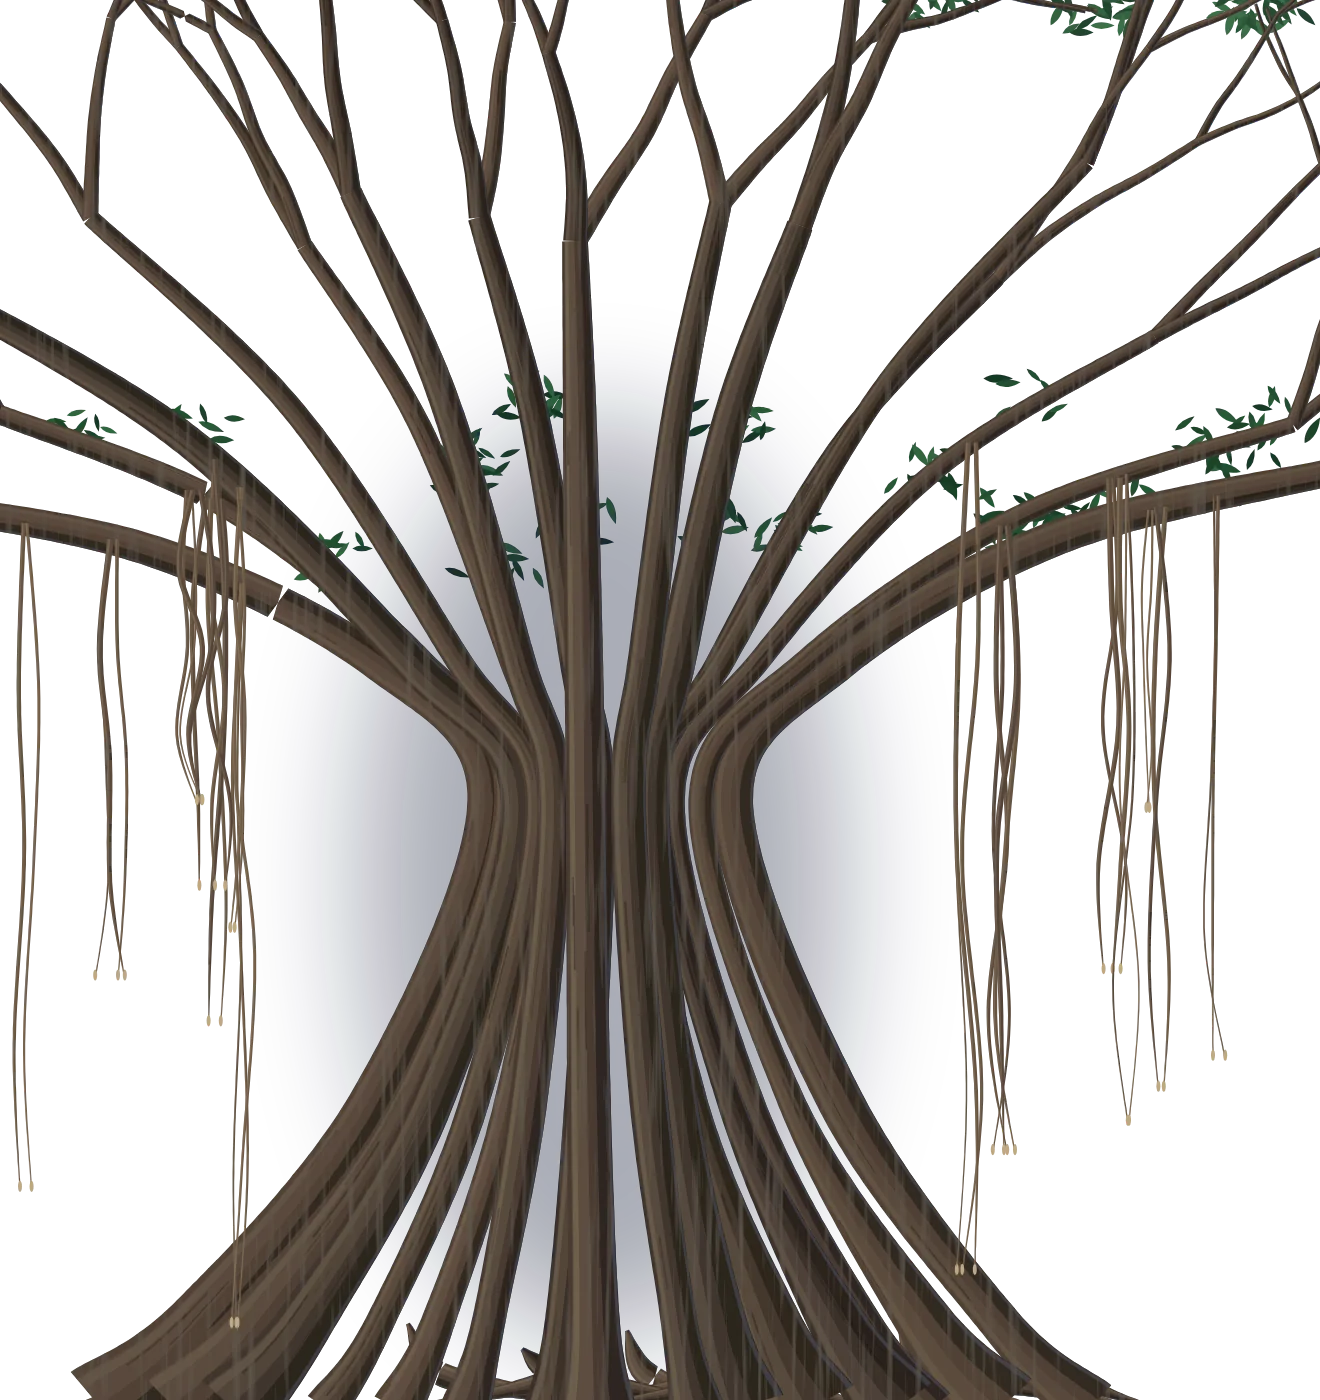
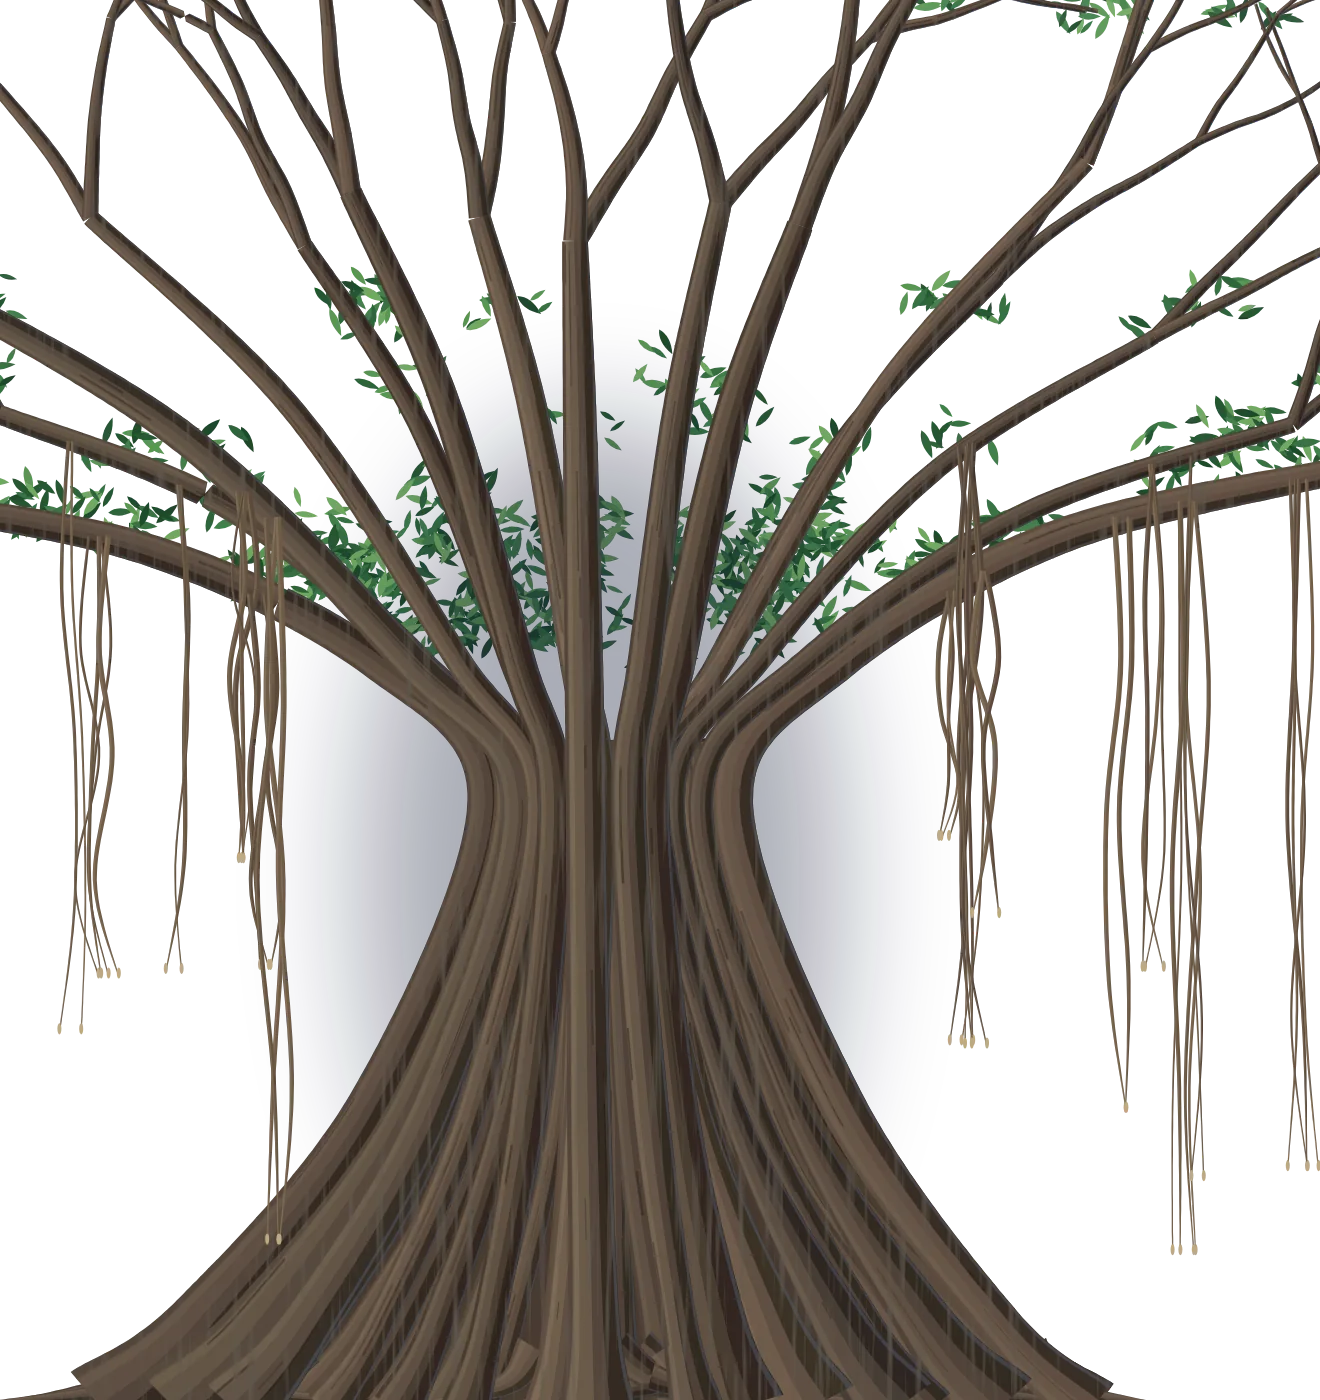
Banian : feuillage parsemé, teinte éclaircie, base dense
Claude-Session: https://claude.ai/code/session_01Nt8rFWjdj5spwPEUakjUMS

diff --git a/index.html b/index.html
@@ -75,8 +75,8 @@ else if(a.matches('.pol-carte'))n='carte-ouverte';else if(h.indexOf('courbe/')==
         <a class="btn btn-blanc" href="#devis">Demander un devis</a>
         <a class="btn btn-contour" href="introduction.html">Essayer gratuitement <span class="btn-sous">· 10 min</span></a>
       </div>
-      <img class="banian banian-arriere" src="banian-arriere.webp?v=2" alt="" width="660" height="700" aria-hidden="true" decoding="async">
-      <img class="banian banian-avant" src="banian-avant.webp?v=2" alt="" width="660" height="700" aria-hidden="true" decoding="async">
+      <img class="banian banian-arriere" src="banian-arriere.webp?v=4" alt="" width="660" height="700" aria-hidden="true" decoding="async">
+      <img class="banian banian-avant" src="banian-avant.webp?v=4" alt="" width="660" height="700" aria-hidden="true" decoding="async">
       <figure class="polaroid" id="polaroid">
         <svg class="pol-racines" viewBox="-46 -6 262 278" preserveAspectRatio="none" aria-hidden="true"><g fill="none" stroke="#A07E60" stroke-linecap="round" stroke-linejoin="round"><path d="M6.0 135.6 L2.1 134.8 L-1.9 134.3 L-5.9 133.8 L-9.8 133.0 L-13.7 132.3 L-17.7 131.6 L-21.6 130.8 L-25.5 130.1 L-29.4 129.1 L-33.2 128.0 L-37.1 126.8" stroke-width="0.70"/><path d="M6.0 135.6 L2.1 134.8 L-1.9 134.3 L-5.9 133.8 L-9.8 133.0 L-13.7 132.3 L-17.7 131.6" stroke-width="1.56"/><path d="M6.0 135.6 L2.1 134.8 L-1.9 134.3 L-5.9 133.8" stroke-width="1.94"/><path d="M-5.9 133.8 L-8.4 130.7 L-10.9 127.5 L-13.2 124.3 L-15.3 120.9" stroke-width="0.70"/><path d="M-5.9 133.8 L-8.4 130.7 L-10.9 127.5" stroke-width="0.64"/><path d="M-5.9 133.8 L-8.4 130.7" stroke-width="0.80"/><path d="M-5.9 133.8 L-9.8 134.7 L-13.7 135.1 L-17.7 135.6 L-21.7 136.2 L-25.6 136.9 L-29.6 137.4" stroke-width="0.70"/><path d="M-5.9 133.8 L-9.8 134.7 L-13.7 135.1 L-17.7 135.6" stroke-width="0.64"/><path d="M-5.9 133.8 L-9.8 134.7" stroke-width="0.80"/><path d="M-9.8 134.7 L-13.4 133.0 L-17.2 131.8" stroke-width="0.70"/><path d="M-9.8 134.7 L-13.4 133.0" stroke-width="0.30"/><path d="M-9.8 134.7 L-13.4 133.0" stroke-width="0.38"/><path d="M-5.9 133.8 L-9.7 135.0 L-13.5 136.0 L-17.4 137.2 L-21.0 138.8 L-24.5 140.7" stroke-width="0.70"/><path d="M-5.9 133.8 L-9.7 135.0 L-13.5 136.0" stroke-width="0.64"/><path d="M-5.9 133.8 L-9.7 135.0" stroke-width="0.80"/><path d="M-9.7 135.0 L-13.7 135.1" stroke-width="0.70"/><path d="M-9.7 135.0 L-13.7 135.1" stroke-width="0.30"/><path d="M-9.7 135.0 L-13.7 135.1" stroke-width="0.37"/><path d="M6.0 169.5 L2.1 168.6 L-1.8 167.9 L-5.8 167.4 L-9.8 167.0 L-13.8 167.3 L-17.7 168.0 L-21.5 169.1 L-25.3 170.5 L-28.9 172.3 L-32.4 174.2" stroke-width="0.70"/><path d="M6.0 169.5 L2.1 168.6 L-1.8 167.9 L-5.8 167.4 L-9.8 167.0 L-13.8 167.3 L-17.7 168.0" stroke-width="1.39"/><path d="M6.0 169.5 L2.1 168.6 L-1.8 167.9 L-5.8 167.4" stroke-width="1.72"/><path d="M-17.7 168.0 L-21.6 166.9 L-25.4 165.7 L-29.1 164.2 L-32.6 162.3 L-36.0 160.2" stroke-width="0.70"/><path d="M-17.7 168.0 L-21.6 166.9 L-25.4 165.7" stroke-width="0.35"/><path d="M-17.7 168.0 L-21.6 166.9" stroke-width="0.43"/><path d="M6.0 203.4 L2.0 202.9 L-1.9 202.5 L-5.9 202.2 L-9.9 201.9 L-13.9 201.7 L-17.9 201.5 L-21.9 201.2 L-25.9 201.1 L-29.9 200.8 L-33.8 200.1 L-37.8 199.3 L-41.6 198.2" stroke-width="0.70"/><path d="M6.0 203.4 L2.0 202.9 L-1.9 202.5 L-5.9 202.2 L-9.9 201.9 L-13.9 201.7 L-17.9 201.5 L-21.9 201.2" stroke-width="1.35"/><path d="M6.0 203.4 L2.0 202.9 L-1.9 202.5 L-5.9 202.2" stroke-width="1.68"/><path d="M-9.9 201.9 L-11.9 198.4 L-13.8 194.9 L-15.4 191.3 L-16.8 187.5 L-18.0 183.7" stroke-width="0.70"/><path d="M-9.9 201.9 L-11.9 198.4 L-13.8 194.9" stroke-width="0.52"/><path d="M-9.9 201.9 L-11.9 198.4" stroke-width="0.64"/><path d="M-11.9 198.4 L-15.1 196.1" stroke-width="0.70"/><path d="M-11.9 198.4 L-15.1 196.1" stroke-width="0.24"/><path d="M-11.9 198.4 L-15.1 196.1" stroke-width="0.29"/><path d="M-11.9 198.4 L-14.8 195.7" stroke-width="0.70"/><path d="M-11.9 198.4 L-14.8 195.7" stroke-width="0.24"/><path d="M-11.9 198.4 L-14.8 195.7" stroke-width="0.29"/><path d="M-11.9 198.4 L-15.7 197.1 L-19.4 195.6" stroke-width="0.70"/><path d="M-11.9 198.4 L-15.7 197.1" stroke-width="0.24"/><path d="M-11.9 198.4 L-15.7 197.1" stroke-width="0.29"/><path d="M-21.9 201.2 L-25.0 203.7 L-27.7 206.7 L-30.2 209.8 L-32.4 213.2" stroke-width="0.70"/><path d="M-21.9 201.2 L-25.0 203.7 L-27.7 206.7" stroke-width="0.34"/><path d="M-21.9 201.2 L-25.0 203.7" stroke-width="0.43"/><path d="M164.0 126.6 L168.0 127.1 L171.8 128.3 L175.4 130.0 L178.5 132.5 L181.0 135.7 L182.6 139.3 L183.9 143.1 L185.3 146.9 L186.3 150.7" stroke-width="0.70"/><path d="M164.0 126.6 L168.0 127.1 L171.8 128.3 L175.4 130.0 L178.5 132.5 L181.0 135.7" stroke-width="1.33"/><path d="M164.0 126.6 L168.0 127.1 L171.8 128.3" stroke-width="1.66"/><path d="M178.5 132.5 L177.3 136.3 L176.4 140.2 L175.7 144.2 L175.1 148.1" stroke-width="0.70"/><path d="M178.5 132.5 L177.3 136.3 L176.4 140.2" stroke-width="0.44"/><path d="M178.5 132.5 L177.3 136.3" stroke-width="0.55"/><path d="M175.4 130.0 L175.0 134.0 L174.6 138.0 L174.1 141.9" stroke-width="0.70"/><path d="M175.4 130.0 L175.0 134.0" stroke-width="0.51"/><path d="M175.4 130.0 L175.0 134.0" stroke-width="0.64"/><path d="M164.0 162.7 L168.0 162.5 L172.0 162.6 L176.0 162.6 L180.0 162.8 L183.9 163.4 L187.8 164.3 L191.6 165.6 L195.3 167.1 L198.7 169.3" stroke-width="0.70"/><path d="M164.0 162.7 L168.0 162.5 L172.0 162.6 L176.0 162.6 L180.0 162.8 L183.9 163.4" stroke-width="1.22"/><path d="M164.0 162.7 L168.0 162.5 L172.0 162.6" stroke-width="1.52"/><path d="M176.0 162.6 L180.0 162.6 L184.0 162.3 L188.0 161.9" stroke-width="0.70"/><path d="M176.0 162.6 L180.0 162.6" stroke-width="0.47"/><path d="M176.0 162.6 L180.0 162.6" stroke-width="0.58"/><path d="M180.0 162.8 L183.9 162.0 L187.8 161.4" stroke-width="0.70"/><path d="M180.0 162.8 L183.9 162.0" stroke-width="0.40"/><path d="M180.0 162.8 L183.9 162.0" stroke-width="0.50"/><path d="M164.0 198.9 L167.8 200.0 L171.7 201.0 L175.6 202.1 L179.4 203.3 L183.1 204.8 L186.7 206.4 L190.3 208.3 L193.5 210.6 L196.4 213.4" stroke-width="0.70"/><path d="M164.0 198.9 L167.8 200.0 L171.7 201.0 L175.6 202.1 L179.4 203.3 L183.1 204.8" stroke-width="1.46"/><path d="M164.0 198.9 L167.8 200.0 L171.7 201.0" stroke-width="1.82"/><path d="M186.7 206.4 L186.8 210.4 L187.3 214.4 L187.8 218.3" stroke-width="0.70"/><path d="M186.7 206.4 L186.8 210.4" stroke-width="0.32"/><path d="M186.7 206.4 L186.8 210.4" stroke-width="0.40"/><path d="M30.6 220.0 L31.9 223.8 L33.1 227.6 L34.7 231.3 L36.4 234.9 L38.1 238.5 L40.0 242.0 L42.4 245.3" stroke-width="0.70"/><path d="M30.6 220.0 L31.9 223.8 L33.1 227.6 L34.7 231.3 L36.4 234.9" stroke-width="1.25"/><path d="M30.6 220.0 L31.9 223.8 L33.1 227.6" stroke-width="1.55"/><path d="M36.4 234.9 L40.4 235.2 L44.3 235.7 L48.2 236.8" stroke-width="0.70"/><path d="M36.4 234.9 L40.4 235.2" stroke-width="0.34"/><path d="M36.4 234.9 L40.4 235.2" stroke-width="0.43"/><path d="M38.1 238.5 L42.0 239.3 L45.9 240.3 L49.7 241.4" stroke-width="0.70"/><path d="M38.1 238.5 L42.0 239.3" stroke-width="0.26"/><path d="M38.1 238.5 L42.0 239.3" stroke-width="0.32"/><path d="M71.4 220.0 L72.3 223.9 L73.0 227.8 L73.5 231.8 L73.5 235.8 L72.7 239.7 L71.3 243.5 L69.5 247.1 L67.6 250.6" stroke-width="0.70"/><path d="M71.4 220.0 L72.3 223.9 L73.0 227.8 L73.5 231.8 L73.5 235.8" stroke-width="1.34"/><path d="M71.4 220.0 L72.3 223.9 L73.0 227.8" stroke-width="1.66"/><path d="M73.5 231.8 L69.7 233.0 L66.1 234.7 L62.8 237.0 L60.1 239.9" stroke-width="0.70"/><path d="M73.5 231.8 L69.7 233.0 L66.1 234.7" stroke-width="0.49"/><path d="M73.5 231.8 L69.7 233.0" stroke-width="0.61"/><path d="M107.1 220.0 L107.5 224.0 L107.5 228.0 L107.5 232.0 L107.3 236.0 L107.2 240.0 L107.4 244.0 L107.8 247.9 L108.2 251.9" stroke-width="0.70"/><path d="M107.1 220.0 L107.5 224.0 L107.5 228.0 L107.5 232.0 L107.3 236.0" stroke-width="1.22"/><path d="M107.1 220.0 L107.5 224.0 L107.5 228.0" stroke-width="1.51"/><path d="M107.2 240.0 L104.4 242.9 L101.5 245.6 L98.5 248.2" stroke-width="0.70"/><path d="M107.2 240.0 L104.4 242.9" stroke-width="0.30"/><path d="M107.2 240.0 L104.4 242.9" stroke-width="0.37"/><path d="M144.5 220.0 L144.6 224.0 L144.6 228.0 L144.4 232.0 L144.4 236.0 L144.7 240.0 L145.0 244.0 L145.4 247.9 L145.7 251.9" stroke-width="0.70"/><path d="M144.5 220.0 L144.6 224.0 L144.6 228.0 L144.4 232.0 L144.4 236.0" stroke-width="1.35"/><path d="M144.5 220.0 L144.6 224.0 L144.6 228.0" stroke-width="1.68"/><path d="M144.4 232.0 L142.9 235.7 L142.0 239.6 L141.1 243.5" stroke-width="0.70"/><path d="M144.4 232.0 L142.9 235.7" stroke-width="0.50"/><path d="M144.4 232.0 L142.9 235.7" stroke-width="0.62"/></g></svg>
         <button type="button" class="pol-carte" aria-label="Paul.M — Paul Moreaux, fondateur de Frenglais : agrandir">
